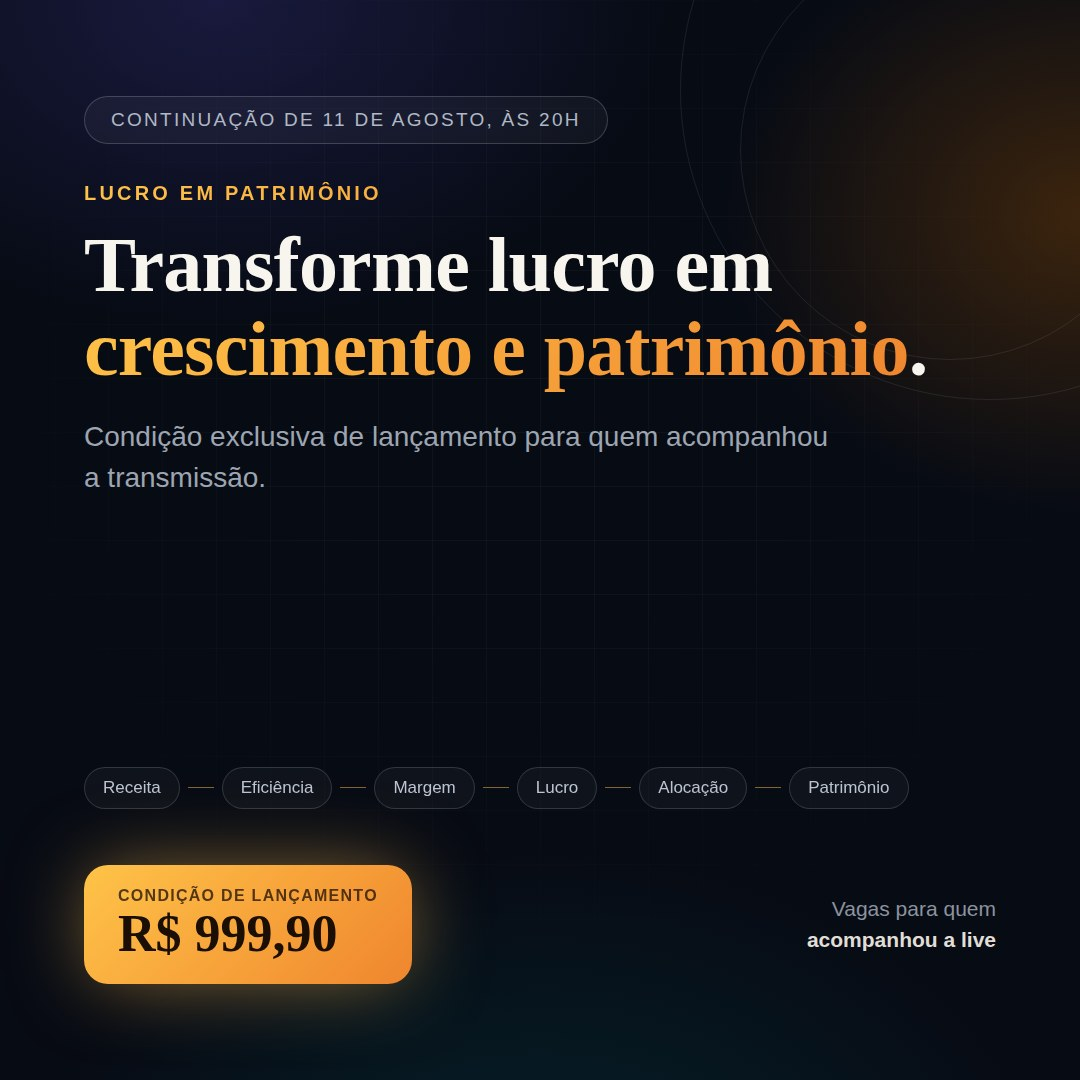
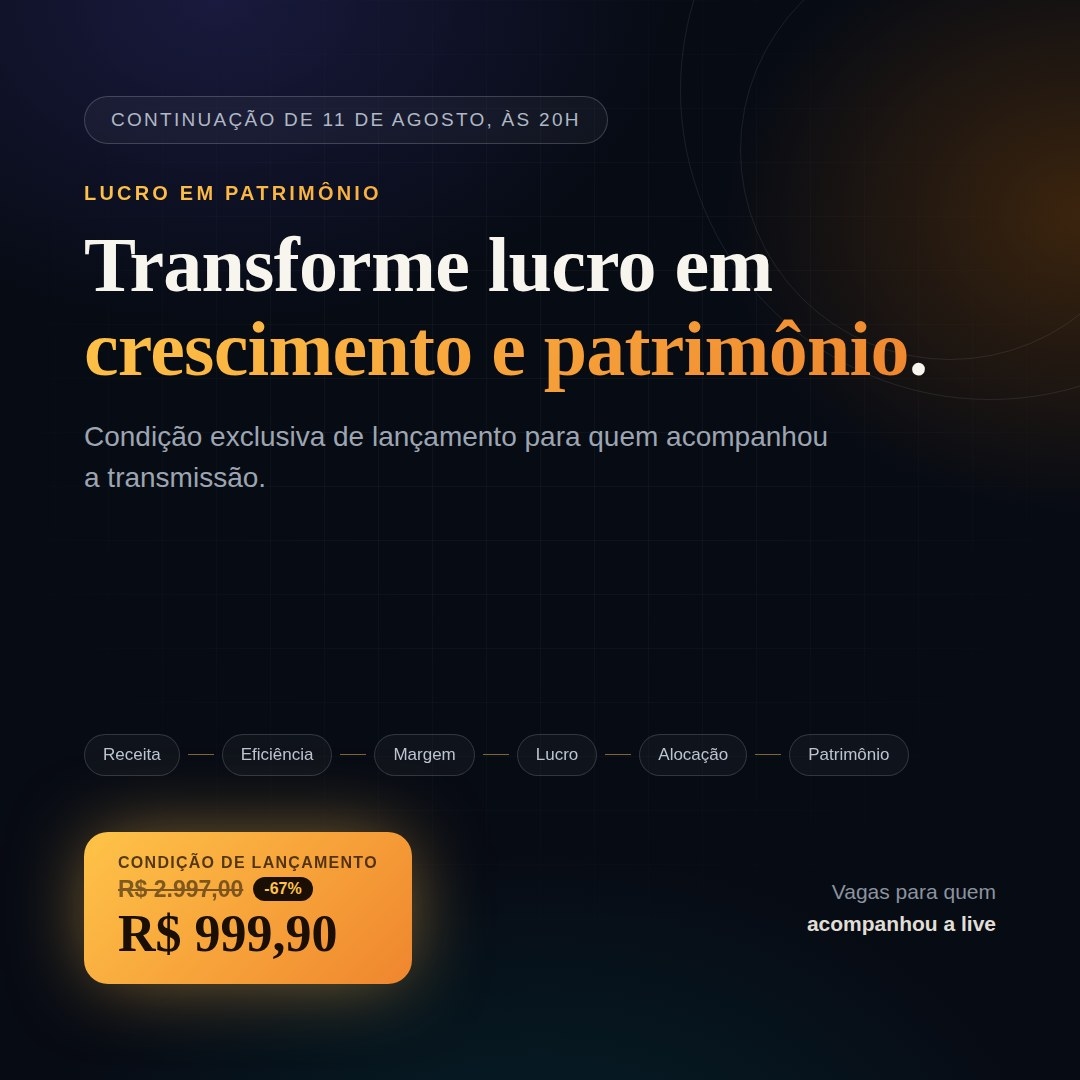
feat(lucro2x): adiciona ancoragem de preço (R$ 2.997,00 → R$ 999,90)
Novo helper discountPercent() em lib/lucro2x/format.ts. Preço de
ancoragem exibido com risco + badge de desconto (-67%) em três lugares:
Hero (linha compacta), Offer (card principal, com destaque) e StickyCta
(barra fixa mobile). Regenera og.jpg e compartilhar.jpg com o mesmo
tratamento visual.

diff --git a/src/components/lucro2x/Offer.tsx b/src/components/lucro2x/Offer.tsx
@@ -1,6 +1,6 @@
 import { Check, ShieldCheck, Zap } from "lucide-react";
 import { guarantee, offerWindow, pricing, programInfo } from "@/lib/lucro2x/config";
-import { formatBRL } from "@/lib/lucro2x/format";
+import { discountPercent, formatBRL } from "@/lib/lucro2x/format";
 import { CtaButton } from "./CtaButton";
 import { Countdown } from "./Countdown";
 import { Section, Eyebrow } from "./Section";
@@ -58,7 +58,17 @@ export function Offer() {
           </p>
 
           <div className="mt-4 flex flex-col items-center">
-            <span className="font-display text-5xl font-semibold tracking-tight text-foreground sm:text-6xl">
+            {pricing.anchorPriceCents != null && (
+              <div className="flex items-center gap-2">
+                <span className="text-lg text-muted-foreground line-through decoration-2">
+                  {formatBRL(pricing.anchorPriceCents)}
+                </span>
+                <span className="rounded-full bg-primary/15 px-2.5 py-0.5 text-xs font-bold text-primary">
+                  -{discountPercent(pricing.anchorPriceCents, pricing.fullPriceCents)}%
+                </span>
+              </div>
+            )}
+            <span className="mt-1 font-display text-5xl font-semibold tracking-tight text-foreground sm:text-6xl">
               {formatBRL(pricing.fullPriceCents)}
             </span>
             <span className="mt-2 flex items-center gap-1.5 text-sm text-muted-foreground">

diff --git a/src/components/lucro2x/StickyCta.tsx b/src/components/lucro2x/StickyCta.tsx
@@ -1,6 +1,6 @@
 import { motion } from "framer-motion";
 import { pricing } from "@/lib/lucro2x/config";
-import { formatBRL } from "@/lib/lucro2x/format";
+import { discountPercent, formatBRL } from "@/lib/lucro2x/format";
 import { CtaButton } from "./CtaButton";
 
 // Barra fixa no rodapé, só em telas pequenas — a maior parte do tráfego
@@ -17,9 +17,16 @@ export function StickyCta() {
       <div className="flex items-center justify-between gap-3">
         <div className="leading-tight">
           <p className="text-[11px] text-muted-foreground">Condição de lançamento</p>
-          <p className="text-sm font-semibold text-foreground">
-            {formatBRL(pricing.fullPriceCents)}
-          </p>
+          <div className="flex items-center gap-1.5">
+            <p className="text-sm font-semibold text-foreground">
+              {formatBRL(pricing.fullPriceCents)}
+            </p>
+            {pricing.anchorPriceCents != null && (
+              <span className="rounded-full bg-primary/15 px-1.5 py-0.5 text-[10px] font-bold text-primary">
+                -{discountPercent(pricing.anchorPriceCents, pricing.fullPriceCents)}%
+              </span>
+            )}
+          </div>
         </div>
         <CtaButton location="sticky_mobile" size="default" className="px-5 py-3 text-sm">
           Entrar agora

diff --git a/src/components/lucro2x/Hero.tsx b/src/components/lucro2x/Hero.tsx
@@ -54,9 +54,14 @@ export function Hero() {
             className="mt-8 flex flex-col gap-4 sm:flex-row sm:items-center"
           >
             <CtaButton location="hero">Quero conhecer o programa</CtaButton>
-            <div className="text-sm text-muted-foreground">
-              Condição de lançamento
-              <span className="ml-1.5 font-semibold text-foreground">
+            <div className="flex flex-wrap items-center gap-x-2 gap-y-1 text-sm text-muted-foreground">
+              <span>Condição de lançamento</span>
+              {pricing.anchorPriceCents != null && (
+                <span className="line-through decoration-2 opacity-70">
+                  {formatBRL(pricing.anchorPriceCents)}
+                </span>
+              )}
+              <span className="font-semibold text-foreground">
                 {formatBRL(pricing.fullPriceCents)}
               </span>
             </div>

diff --git a/src/lib/lucro2x/config.ts b/src/lib/lucro2x/config.ts
@@ -27,9 +27,9 @@ export const programInfo = {
 
 export const pricing = {
   fullPriceCents: 99990, // R$ 999,90 — preço definitivo, à vista, só via Pix
-  // Preço de referência anterior, se existir (pra ancoragem). Deixe `null`
-  // enquanto não houver preço oficial anterior confirmado.
-  anchorPriceCents: null as number | null,
+  // Preço de referência pra ancoragem (valor de mercado / preço cheio do
+  // programa fora dessa condição de lançamento).
+  anchorPriceCents: 299700 as number | null, // R$ 2.997,00
 };
 
 export const offerWindow = {

diff --git a/src/lib/lucro2x/format.ts b/src/lib/lucro2x/format.ts
@@ -14,3 +14,10 @@ export function formatBRLNoSymbol(cents: number): string {
     maximumFractionDigits: 2,
   });
 }
+
+// Percentual de desconto entre o preço de ancoragem e o preço atual,
+// arredondado pra inteiro (é assim que desconto costuma ser comunicado —
+// "-67%", não "-66,63%"). Só faz sentido chamar quando anchorCents existe.
+export function discountPercent(anchorCents: number, priceCents: number): number {
+  return Math.round(100 - (priceCents / anchorCents) * 100);
+}
